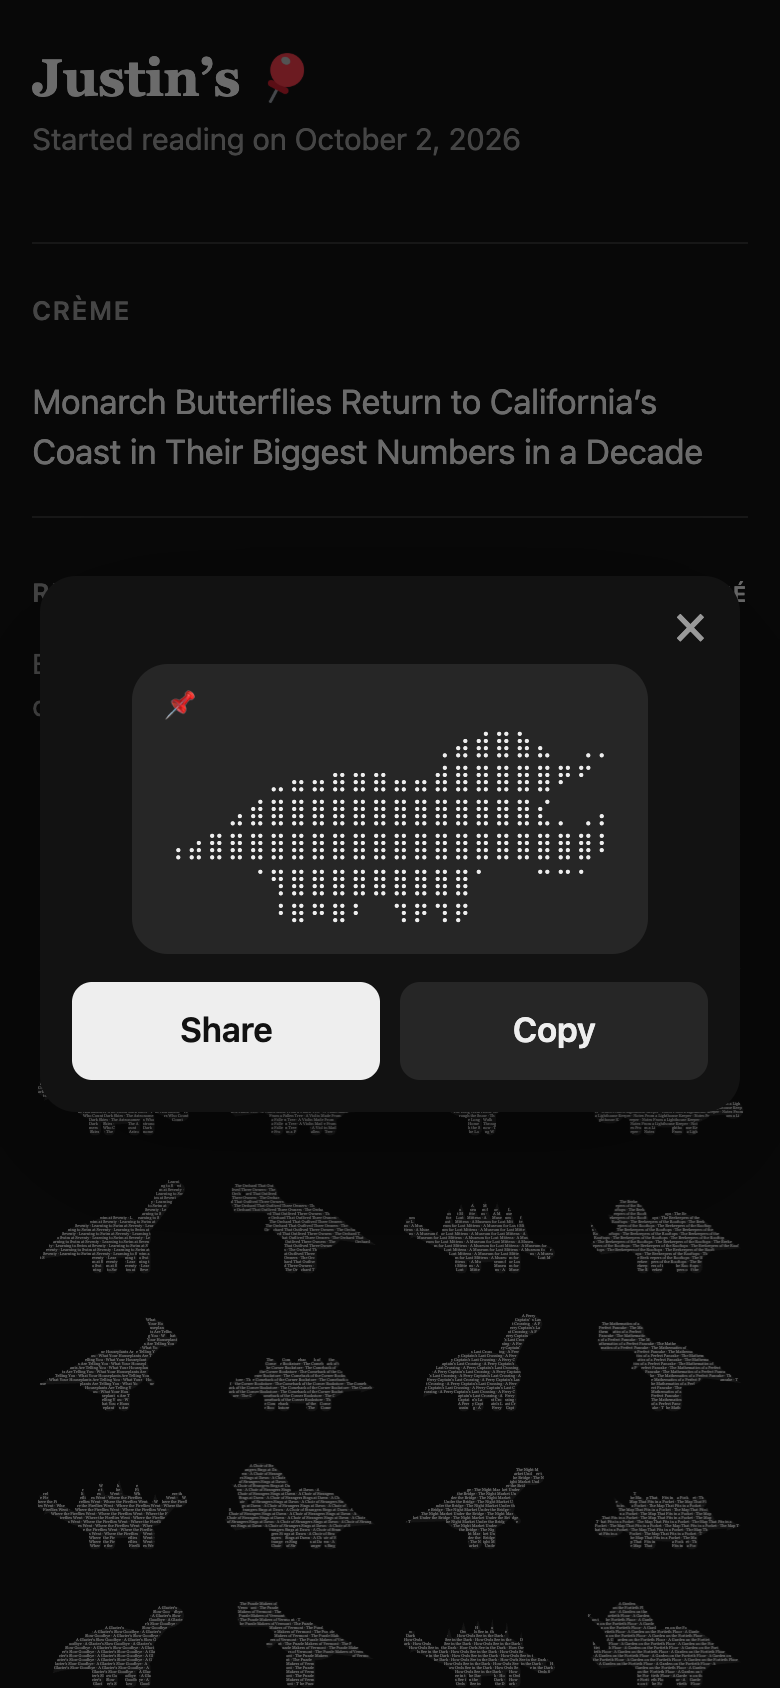
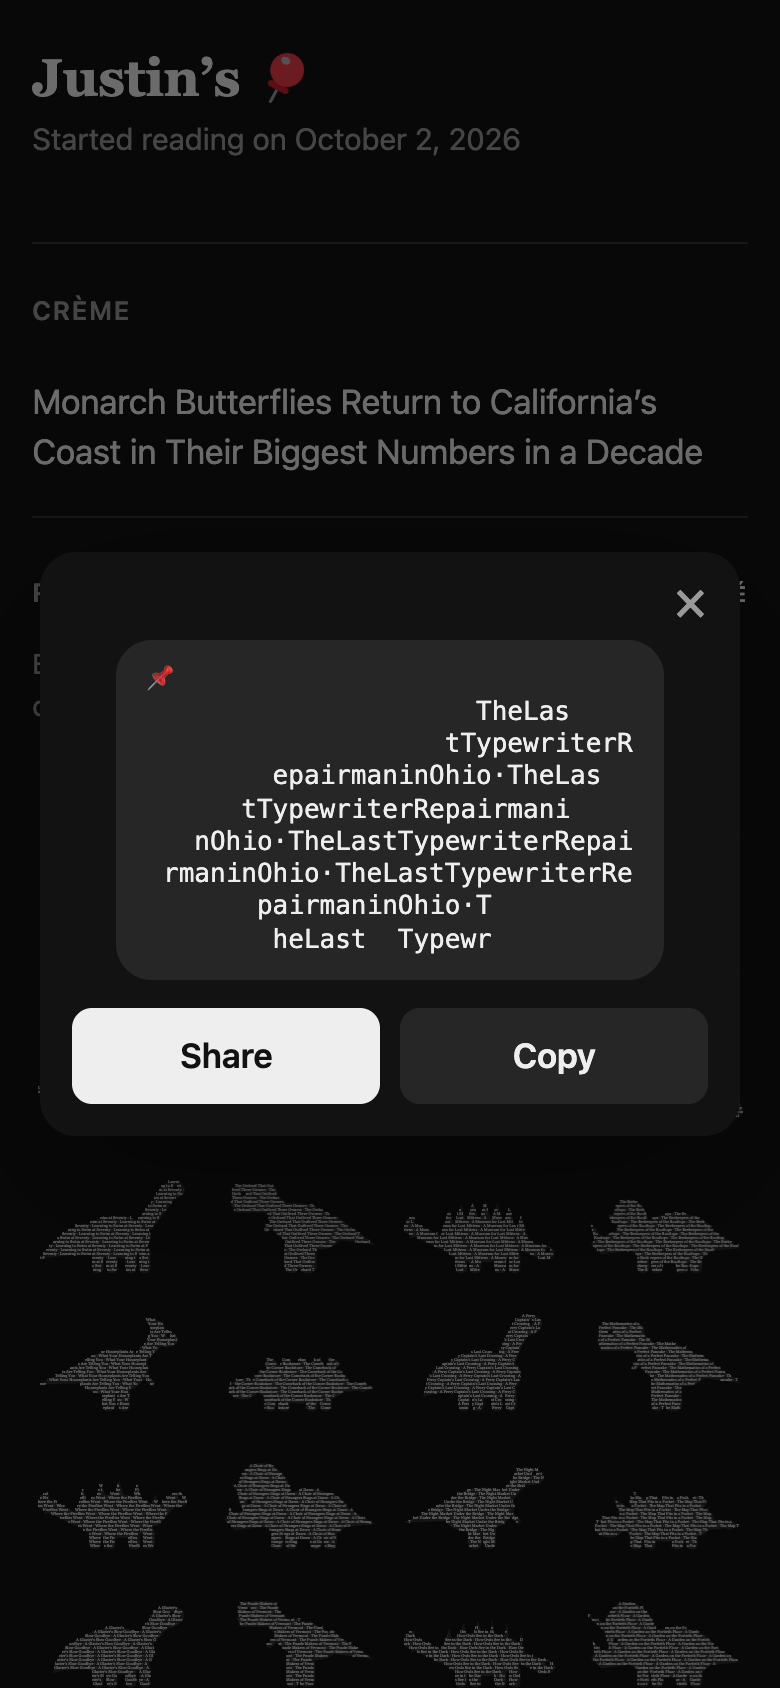
Share a dinosaur as its headline's letters and spaces (32 columns), not braille

diff --git a/src/pushpin/cards.py b/src/pushpin/cards.py
@@ -90,7 +90,7 @@ box-shadow:0 1px 2px rgba(0,0,0,.3);transition:transform .25s ease}
 .sharecard{border:0;padding:44px 16px 16px;border-radius:18px;background:var(--bg);color:var(--fg);width:min(92vw,420px);
 box-sizing:border-box;box-shadow:0 24px 80px rgba(0,0,0,.35)}.sharecard::backdrop{background:rgba(0,0,0,.55)}
 .sharecard pre{margin:0 auto;width:fit-content;max-width:100%;padding:12px 16px;border-radius:18px;background:var(--btn);
-font:15px/1.15 -apple-system,system-ui,sans-serif;white-space:pre;overflow-x:auto}
+font:13px/1.25 ui-monospace,Menlo,monospace;white-space:pre;overflow-x:auto}
 .sharecard .x{position:absolute;top:6px;right:8px;font:28px/1 -apple-system,system-ui,sans-serif;border:0;background:none;color:var(--muted);padding:4px 8px;cursor:pointer}
 .sharecard .row{margin-top:14px}.sharecard .go{background:var(--fg);color:var(--bg)}
 .sharecard:has(.go[hidden]) .copy{background:var(--fg);color:var(--bg)}.papier figcaption{font-size:12px;letter-spacing:.06em;text-transform:uppercase;color:var(--muted);text-align:center;margin-top:6px}
@@ -617,11 +617,11 @@ function draw(canvas, words, flip, animate, kind, delay) {
   requestAnimationFrame(frame);
 }
 // ---- share card ----
-// Tapping a dinosaur opens it as text to paste in any chat: a pin, then the dinosaur in braille.
-// Chat apps set text in proportional fonts, where letters won't line up into a shape; braille
-// cells (blank U+2800 included) are all one width, and each holds 2 x 4 dots of the silhouette.
-const COLS = 22, BITS = [[0x01, 0x08], [0x02, 0x10], [0x04, 0x20], [0x40, 0x80]];
-function braille(kind) {
+// Tapping a dinosaur opens it as text to paste in any chat: a pin, then the dinosaur as its
+// headline's letters on a character grid, with spaces around it. It lines up in a monospace font;
+// in a chat's proportional one it leans and wobbles, which is part of the charm.
+const COLS = 32;
+function textDino(title, kind) {
   const w = 400, h = 256, m = document.createElement('canvas'); m.width = w; m.height = h;
   const mc = m.getContext('2d'); dino(mc, w, h, false, kind);
   const a = mc.getImageData(0, 0, w, h).data, on = (x, y) => a[(y * w + x) * 4 + 3] > 127;
@@ -629,29 +629,26 @@ function braille(kind) {
   for (let y = 0; y < h; y++) for (let x = 0; x < w; x++) if (on(x, y)) {
     x0 = Math.min(x0, x); x1 = Math.max(x1, x); y0 = Math.min(y0, y); y1 = Math.max(y1, y);
   }
-  const dots = COLS * 2, step = (x1 - x0 + 1) / dots, rows = Math.ceil((y1 - y0 + 1) / step / 4);
-  const dot = (dx, dy) => {  // a dot is on when most of its patch is inside the silhouette
+  const cw = (x1 - x0 + 1) / COLS, ch = cw * 2, rows = Math.round((y1 - y0 + 1) / ch);  // a character is about twice as tall as wide
+  const cell = (c, r) => {  // inside when a good part of the cell is, so legs and spikes keep a letter
     let n = 0, t = 0;
-    for (let y = Math.floor(y0 + dy * step); y < Math.min(y1 + 1, y0 + (dy + 1) * step); y++)
-      for (let x = Math.floor(x0 + dx * step); x < Math.min(x1 + 1, x0 + (dx + 1) * step); x++) { t++; if (on(x, y)) n++; }
-    return t && n / t > 0.45;
+    for (let y = Math.floor(y0 + r * ch); y < Math.min(y1 + 1, y0 + (r + 1) * ch); y++)
+      for (let x = Math.floor(x0 + c * cw); x < Math.min(x1 + 1, x0 + (c + 1) * cw); x++) { t++; if (on(x, y)) n++; }
+    return t && n / t > 0.3;
   };
-  const lines = [];
+  const letters = title.replace(/\s+/g, '') + '·';  // no spaces inside the body, so it has no holes
+  const lines = []; let i = 0;
   for (let r = 0; r < rows; r++) {
     let line = '';
-    for (let col = 0; col < COLS; col++) {
-      let bits = 0;
-      for (let j = 0; j < 4; j++) for (let i = 0; i < 2; i++) if (dot(col * 2 + i, r * 4 + j)) bits |= BITS[j][i];
-      line += String.fromCharCode(0x2800 + bits);
-    }
-    lines.push(line.replace(/ +$/, ''));  // trailing blanks only; leading ones keep the shape
+    for (let c = 0; c < COLS; c++) line += cell(c, r) ? letters[i++ % letters.length] : ' ';
+    lines.push(line.trimEnd());
   }
   while (lines.length && !lines[0]) lines.shift();
   while (lines.length && !lines[lines.length - 1]) lines.pop();
   return '📌\\n' + lines.join('\\n');
 }
 let sheet = null;
-function share(kind) {
+function share(title, kind) {
   if (!sheet) {
     sheet = document.createElement('dialog'); sheet.className = 'sharecard';
     sheet.innerHTML = '<button type="button" class="x" aria-label="Close">×</button><pre></pre>'
@@ -660,7 +657,7 @@ function share(kind) {
     sheet.addEventListener('click', ev => { if (ev.target === sheet) sheet.close(); });  // the backdrop
     document.body.append(sheet);
   }
-  const text = braille(kind), pre = sheet.querySelector('pre'), go = sheet.querySelector('.go'), copy = sheet.querySelector('.copy');
+  const text = textDino(title, kind), pre = sheet.querySelector('pre'), go = sheet.querySelector('.go'), copy = sheet.querySelector('.copy');
   pre.textContent = text; pre.setAttribute('aria-label', 'A ' + kind.name + ' drawn in text');
   go.hidden = !navigator.share;
   go.onclick = () => navigator.share({text}).catch(() => null);
@@ -678,7 +675,7 @@ function build(animate) {
     canvas.setAttribute('aria-label', 'A ' + kind.name + ' made of the title: ' + title);
     tap.type = 'button'; tap.className = 'dino'; tap.title = kind.name + ' · ' + title;
     tap.setAttribute('aria-label', 'Share the ' + kind.name + ': ' + title);
-    tap.append(canvas); tap.addEventListener('click', () => share(kind));
+    tap.append(canvas); tap.addEventListener('click', () => share(title, kind));
     box.append(tap);
     draw(canvas, [title], k % 2 === 1, animate, kind, animate ? Math.min(k, 40) * 45 : 0);  // they hatch one after another
   });

diff --git a/docs/demo-screens.md b/docs/demo-screens.md
@@ -49,37 +49,41 @@ under the words so the shape reads at that size. The full page has all 29:
 ## 4. Sharing a dinosaur
 
 Tapping a dinosaur opens it as text, ready to paste into any chat: 📌 on its own line, then the
-dinosaur drawn in braille characters. **Share** opens the phone's share sheet with the text, and
-**Copy** copies it. Browsers without a share sheet only show Copy.
+dinosaur drawn with its headline's letters on a 32-character grid, with plain spaces around it. The
+spaces between words are dropped inside the body so it has no holes. **Share** opens the phone's
+share sheet with the text, and **Copy** copies it. Browsers without a share sheet only show Copy.
 
-Chat apps use proportional fonts, so ordinary letters wouldn't line up into a shape. Braille
-characters, including the blank one (U+2800), are all one width, and each one holds 2 × 4 dots of
-the dinosaur's outline, 22 characters across.
+It lines up in a monospace font. In a chat's proportional font the rows shift a little, and that's
+fine.
 
-<img src="screens/share-sheet.png" width="300" alt="Share sheet on the demo profile: a Triceratops drawn in braille text, with Share and Copy buttons">
+<img src="screens/share-sheet.png" width="300" alt="Share sheet on the demo profile: a Triceratops spelled out in the letters of The Last Typewriter Repairman in Ohio, with Share and Copy buttons">
 
-What the first two demo dinosaurs share as:
-
-```
-📌
-                 ⢠⣾⣿⣻⣷
-               ⢀⣴⣿⣿⡿⠛⠁
-      ⢀⣠⣴⣶⣶⣶⣶⣶⣤⣿⣿⡿⠋
-   ⣠⣶⣿⣿⣿⣿⣿⣿⣿⣿⣿⣿⣿⣿⠁
- ⣠⣾⣿⣿⣿⣿⣿⣿⣿⣿⣿⣿⣿⣿⣿⡟
-⠚⠛⠛⠉⠉⠉⠉⠙⣿⡿⣿⡿⢿⣿⡟⣿⡇
-        ⠿⠃⠿⠃⠘⠿⠃⠿⠃
-```
+What two of the demo dinosaurs share as, a Brontosaurus and a Stegosaurus:
 
 ```
 📌
-              ⢰⣿⣿⣿⣿⣿⣿⣦
-        ⢀⣀⣤⣤⣤⣴⣿⣿⣿⣿⣿⣿⣿⡿
-    ⢀⣠⣤⣾⣿⣿⣿⣿⣿⣿⣿⣿⠉⠉⠉⠉⠉⠁
-  ⣠⣴⣿⣿⣿⣿⣿⣿⣿⣿⣿⣿⡿⠛⠆
-⠐⠛⠛⠋⠉⠉⠻⠿⢿⣿⣿⣿⣿⡇
-         ⣿⣿⣿⣿⡇
-         ⠻⠿⠛⠿⠃
+                          Whatth
+                         eTideLe
+                       avesBe
+           hind·WhattheTide
+       LeavesBehind·Whatth
+    eTideLeavesBehind·Wha
+  ttheTideLeavesBehind·Wh
+attheTideLeavesBehind·Wh
+           attheT ideLea
+           vesBeh ind·Wh
+```
+
+```
+📌
+             A   C
+         i  tyL ear ns
+toL     oveItsRain·ACit yL
+earnsto LoveItsRain·ACityL
+   earnstoLoveItsRain·ACityL
+       earnstoLoveItsRain·ACityL
+           earnstoLoveIts   Rai
+           n·ACit  yLearn
 ```
 
 ## Before the first push: the welcome page

diff --git a/README.md b/README.md
@@ -38,7 +38,7 @@ The notifier scores live NYT RSS articles and pushes to phones through [ntfy](ht
 or the iOS app. Readers choose a volume: light (2 a day: morning, night), medium (4) or heavy (8).
 Tapping a push opens the reader's profile. Every article they read becomes a very small
 papier-mâché dinosaur made of its headline, and tapping one turns it into text to share in any
-chat: 📌 and the dinosaur drawn in braille characters. Every
+chat: 📌 and the dinosaur spelled out in its headline's letters. Every
 push and tap is logged as labeled data that MIND lacks. The plan is to retrain the model each week
 on these logs. It can also deploy to GCP for about
 $1/month.
